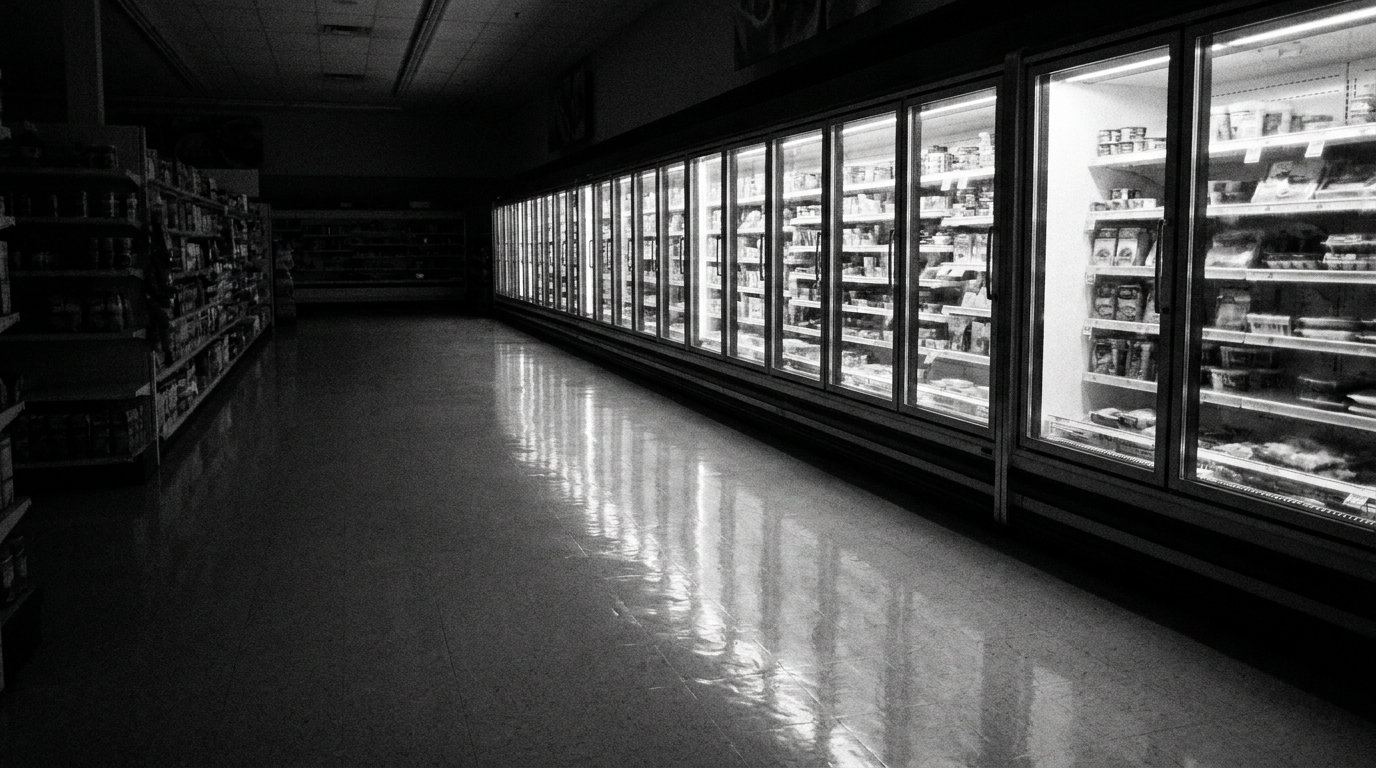
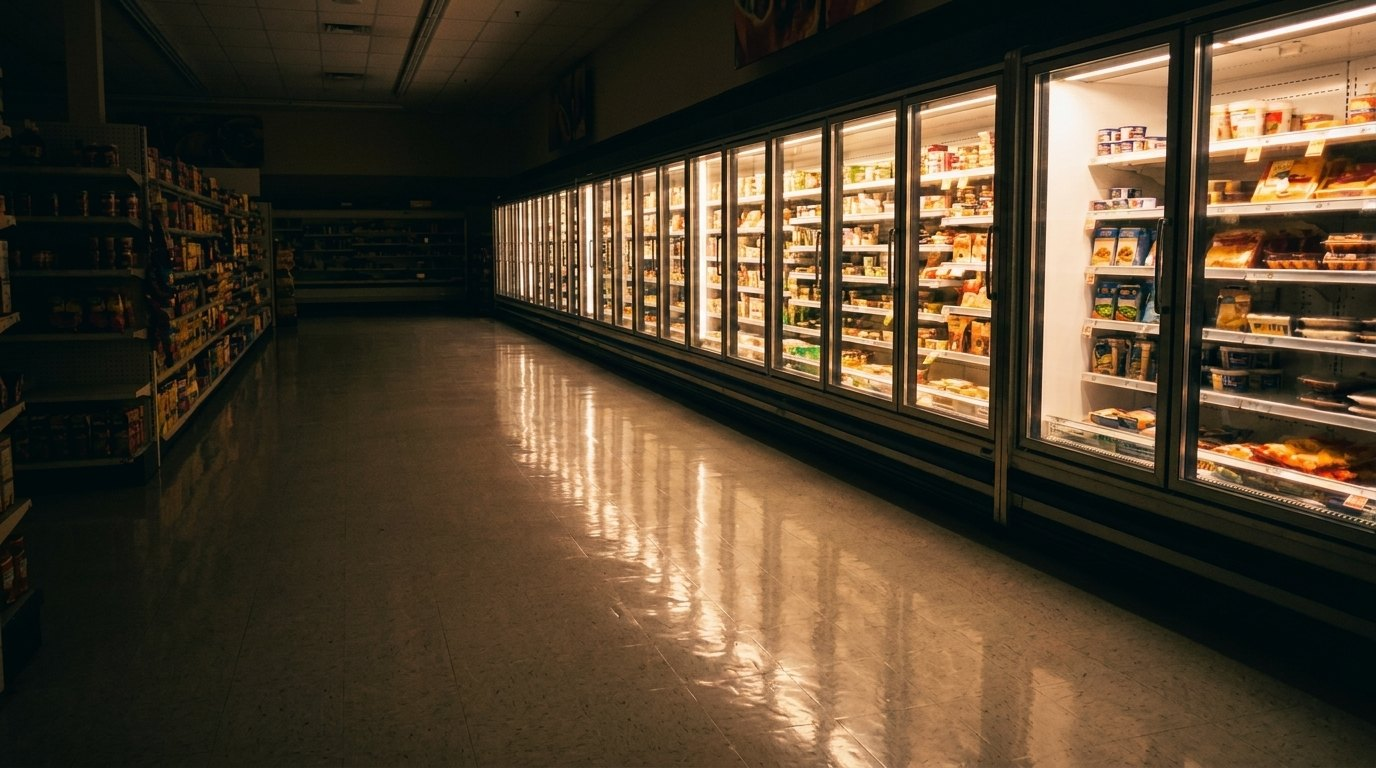
Scroll-reveal: photos come alive B&W->colour crossing the viewport centre (preview-gated)
Reusable scroll-driven grayscale->colour on 6 photographs (Cliff, survey plates 1&2,
HVAC optimizer, thermal barrier, solar coil): 0% when the image top hits screen centre,
~80% at its middle, 100% at its bottom, then holds; reverses on scroll-up. The coil
cutaway (a line drawing) and the B&W SunCore stay grayscale by design. Colourised the
three B&W sources (survey plates + barrier) image-to-image, same composition; shown
grayscale at rest so the live page is unchanged. Gated behind ?reveal for preview.

diff --git a/index.html b/index.html
@@ -199,7 +199,7 @@
     <div class="wrap">
       <div class="dossier">
         <figure class="dossier__photo">
-          <div class="plate__frame plate__frame--portrait"><img src="assets/img/cliff-lab.jpg" alt="Cliff Suljak, Chief Materials Engineer, standing in a materials testing laboratory" loading="lazy"></div>
+          <div class="plate__frame plate__frame--portrait"><img class="js-reveal" src="assets/img/cliff-lab.jpg" alt="Cliff Suljak, Chief Materials Engineer, standing in a materials testing laboratory" loading="lazy"></div>
           <figcaption class="dossier__cap">Personnel file &middot; C. Suljak &middot; Chief Materials Engineer</figcaption>
         </figure>
         <div class="dossier__body">
@@ -278,7 +278,7 @@
         <figcaption>Fig. 03 &middot; The one load that runs every hour of the year</figcaption>
       </figure>
       <figure class="plate plate--dark">
-        <div class="plate__frame"><img src="assets/img/always-night.jpg" alt="Illustrative: a supermarket after closing, dark except for the glow of the refrigerated cases still running down the aisle" loading="lazy"></div>
+        <div class="plate__frame"><img class="js-reveal" src="assets/img/always-night.jpg" alt="Illustrative: a supermarket after closing, dark except for the glow of the refrigerated cases still running down the aisle" loading="lazy"></div>
         <figcaption>Survey plate 1 &middot; A store after close, lit only by the cold still running &middot; illustrative<sup class="fn"><a href="#notes" aria-label="See note 1">1</a></sup></figcaption>
       </figure>
       <p class="always__note">This is why we start with the meter, not the roof: the fix that pays most in a store is usually the one attached to the load that never gets to rest.</p>
@@ -423,21 +423,21 @@
           <p class="kit__fig">Recovers up to 36% of lost performance<sup class="fn"><a href="#notes" aria-label="See notes 1 and 12">1, 12</a></sup></p>
         </li>
         <li>
-          <div class="kit__img"><img src="assets/img/kit-optimizer.jpg" alt="The HVAC optimizer control module, photographed on its mounting panel" loading="lazy"></div>
+          <div class="kit__img"><img class="js-reveal" src="assets/img/kit-optimizer.jpg" alt="The HVAC optimizer control module, photographed on its mounting panel" loading="lazy"></div>
           <p class="kit__fit">For simple on/off compressors &middot; most store rooftops</p>
           <h3>The HVAC optimizer</h3>
           <p>Learns how the store actually runs and shuts the compressor off the moment it stops doing useful work, while the fan keeps delivering the stored cold. Nothing changes on the sales floor.</p>
           <p class="kit__fig">15&ndash;30% less HVAC energy<sup class="fn"><a href="#notes" aria-label="See note 1">1</a></sup></p>
         </li>
         <li>
-          <div class="kit__img"><img src="assets/img/kit-barrier.png" alt="Illustrative: a commercial flat roof half-coated in a bright reflective thermal barrier" loading="lazy"></div>
+          <div class="kit__img"><img class="js-reveal" src="assets/img/kit-barrier.jpg" alt="Illustrative: a commercial flat roof half-coated in a bright reflective thermal barrier" loading="lazy"></div>
           <p class="kit__fit">For the roof over all of it</p>
           <h3>The thermal barrier</h3>
           <p>A store roof is acres of flat black surface loading heat into the equipment underneath it. Sprayed or membrane-applied where the diagnosis shows it pays, so the heat never reaches the units that would have fought it.</p>
           <p class="kit__fig">Blocks up to 18 degrees before it gets in<sup class="fn"><a href="#notes" aria-label="See note 1">1</a></sup></p>
         </li>
         <li>
-          <div class="kit__img"><img src="assets/img/kit-solarcoil.jpg" alt="A solar coil collector installed on a commercial roof, rooftop units behind it" loading="lazy"></div>
+          <div class="kit__img"><img class="js-reveal" src="assets/img/kit-solarcoil.jpg" alt="A solar coil collector installed on a commercial roof, rooftop units behind it" loading="lazy"></div>
           <p class="kit__fit">For inverter-type systems</p>
           <h3>The solar coil</h3>
           <p>Not a solar panel: a solar thermal retrofit that captures the sun's heat directly and puts it to work for the compressor, changing where the energy comes from.</p>
@@ -535,7 +535,7 @@
       <p class="lead">The same waste that pads the bill runs through your compressors and wears them out years early. <strong>Replacing an aged-out rooftop fleet runs $260K to $480K per store.</strong><sup class="fn"><a href="#notes" aria-label="See note 1">1</a></sup></p>
       <p class="lead">And a case that drifts <span class="drift">two degrees</span> is not a service call. It is shorter shelf life on everything in it, marked down or thrown out weeks later, showing up in shrink where nobody connects it back to a compressor.<sup class="fn"><a href="#notes" aria-label="See notes 1 and 12">1, 12</a></sup> <strong>None of it appears on any bill until the day it all does.</strong></p>
       <figure class="plate">
-        <div class="plate__frame"><img src="assets/img/stakes-cases.jpg" alt="Illustrative: a long line of open refrigerated grocery display cases, the cold that turns into shrink the moment it drifts" loading="lazy"></div>
+        <div class="plate__frame"><img class="js-reveal" src="assets/img/stakes-cases.jpg" alt="Illustrative: a long line of open refrigerated grocery display cases, the cold that turns into shrink the moment it drifts" loading="lazy"></div>
         <figcaption>Survey plate 2 &middot; The cold that becomes shrink the day it drifts &middot; illustrative</figcaption>
       </figure>
     </div>

diff --git a/assets/site.js b/assets/site.js
@@ -59,6 +59,39 @@
     setP();
   }
 
+  /* ---------- scroll-reveal: photos go B&W -> colour as they cross the viewport centre ----------
+     Each img.js-reveal is driven by its own --c: 0 when its top is at the screen's middle,
+     ~80% when its middle is (eased), 100% when its bottom is, then it holds. Reverses on
+     scroll-up. PREVIEW-GATED behind ?reveal for now; remove the param check to go live. */
+  const revealImgs = document.querySelectorAll("img.js-reveal");
+  const revealWanted = new URLSearchParams(location.search).has("reveal");
+  if (revealImgs.length && !reduced && revealWanted && "IntersectionObserver" in window) {
+    document.documentElement.classList.add("reveal-on");
+    const vis = new Set();
+    const io = new IntersectionObserver((entries) => {
+      for (const e of entries) {
+        if (e.isIntersecting) vis.add(e.target);
+        else { vis.delete(e.target); e.target.style.setProperty("--c", e.boundingClientRect.top < 0 ? "1" : "0"); }
+      }
+    }, { threshold: 0 });
+    revealImgs.forEach((el) => io.observe(el));
+    let rTick = false;
+    const rUpd = () => {
+      rTick = false;
+      const mid = innerHeight / 2;
+      vis.forEach((el) => {
+        const r = el.getBoundingClientRect();
+        let c = (mid - r.top) / (r.height || 1);   // 0 = top at centre, 1 = bottom at centre
+        c = Math.min(Math.max(c, 0), 1);
+        el.style.setProperty("--c", (1 - Math.pow(1 - c, 2.2)).toFixed(3)); // ~80% by the midpoint
+      });
+    };
+    const rOnScroll = () => { if (!rTick) { rTick = true; requestAnimationFrame(rUpd); } };
+    addEventListener("scroll", rOnScroll, { passive: true });
+    addEventListener("resize", rOnScroll, { passive: true });
+    rUpd();
+  }
+
   /* ---------- text-the-founder panels ---------- */
   const isIOS = /iP(hone|ad|od)/.test(navigator.userAgent) || (/Mac/.test(navigator.userAgent) && "ontouchend" in document);
   const buildSms = (panel) => {

diff --git a/assets/site.css b/assets/site.css
@@ -224,6 +224,21 @@ html.hero-pin .bill .mk-t {
   color: oklch(0.8 0.006 260); opacity: clamp(0, calc(1 - var(--p, 0) * 3), 1); pointer-events: none;
 }
 .hero-pin .scrollcue span { width: 1px; height: 22px; background: currentColor; opacity: 0.6; }
+
+/* scroll-reveal: photographs come alive from B&W to colour as they cross the viewport
+   centre. site.js adds .reveal-on (motion allowed) and drives each img.js-reveal by its
+   own --c (0..1). Higher specificity (html.reveal-on img.js-reveal) so it overrides the
+   base grayscale filters on plates, the portrait, and the kit photos. Technical line
+   drawings (the coil cutaway) and the B&W SunCore are deliberately NOT tagged, so they
+   stay in ink — the measurement register stays measurement; the real places come alive. */
+html.reveal-on img.js-reveal {
+  filter:
+    grayscale(calc(1 - var(--c, 0)))
+    saturate(calc(1 + 0.25 * var(--c, 0)))
+    contrast(1.05)
+    brightness(calc(0.9 + 0.1 * var(--c, 0)));
+  transition: filter 90ms linear;
+}
 .hero__in, .close__in { position: relative; padding-block: clamp(6rem, 12vh, 9rem); }
 .hero h1 {
   color: white; font-size: var(--step-4); font-weight: 840; font-stretch: 122%;
